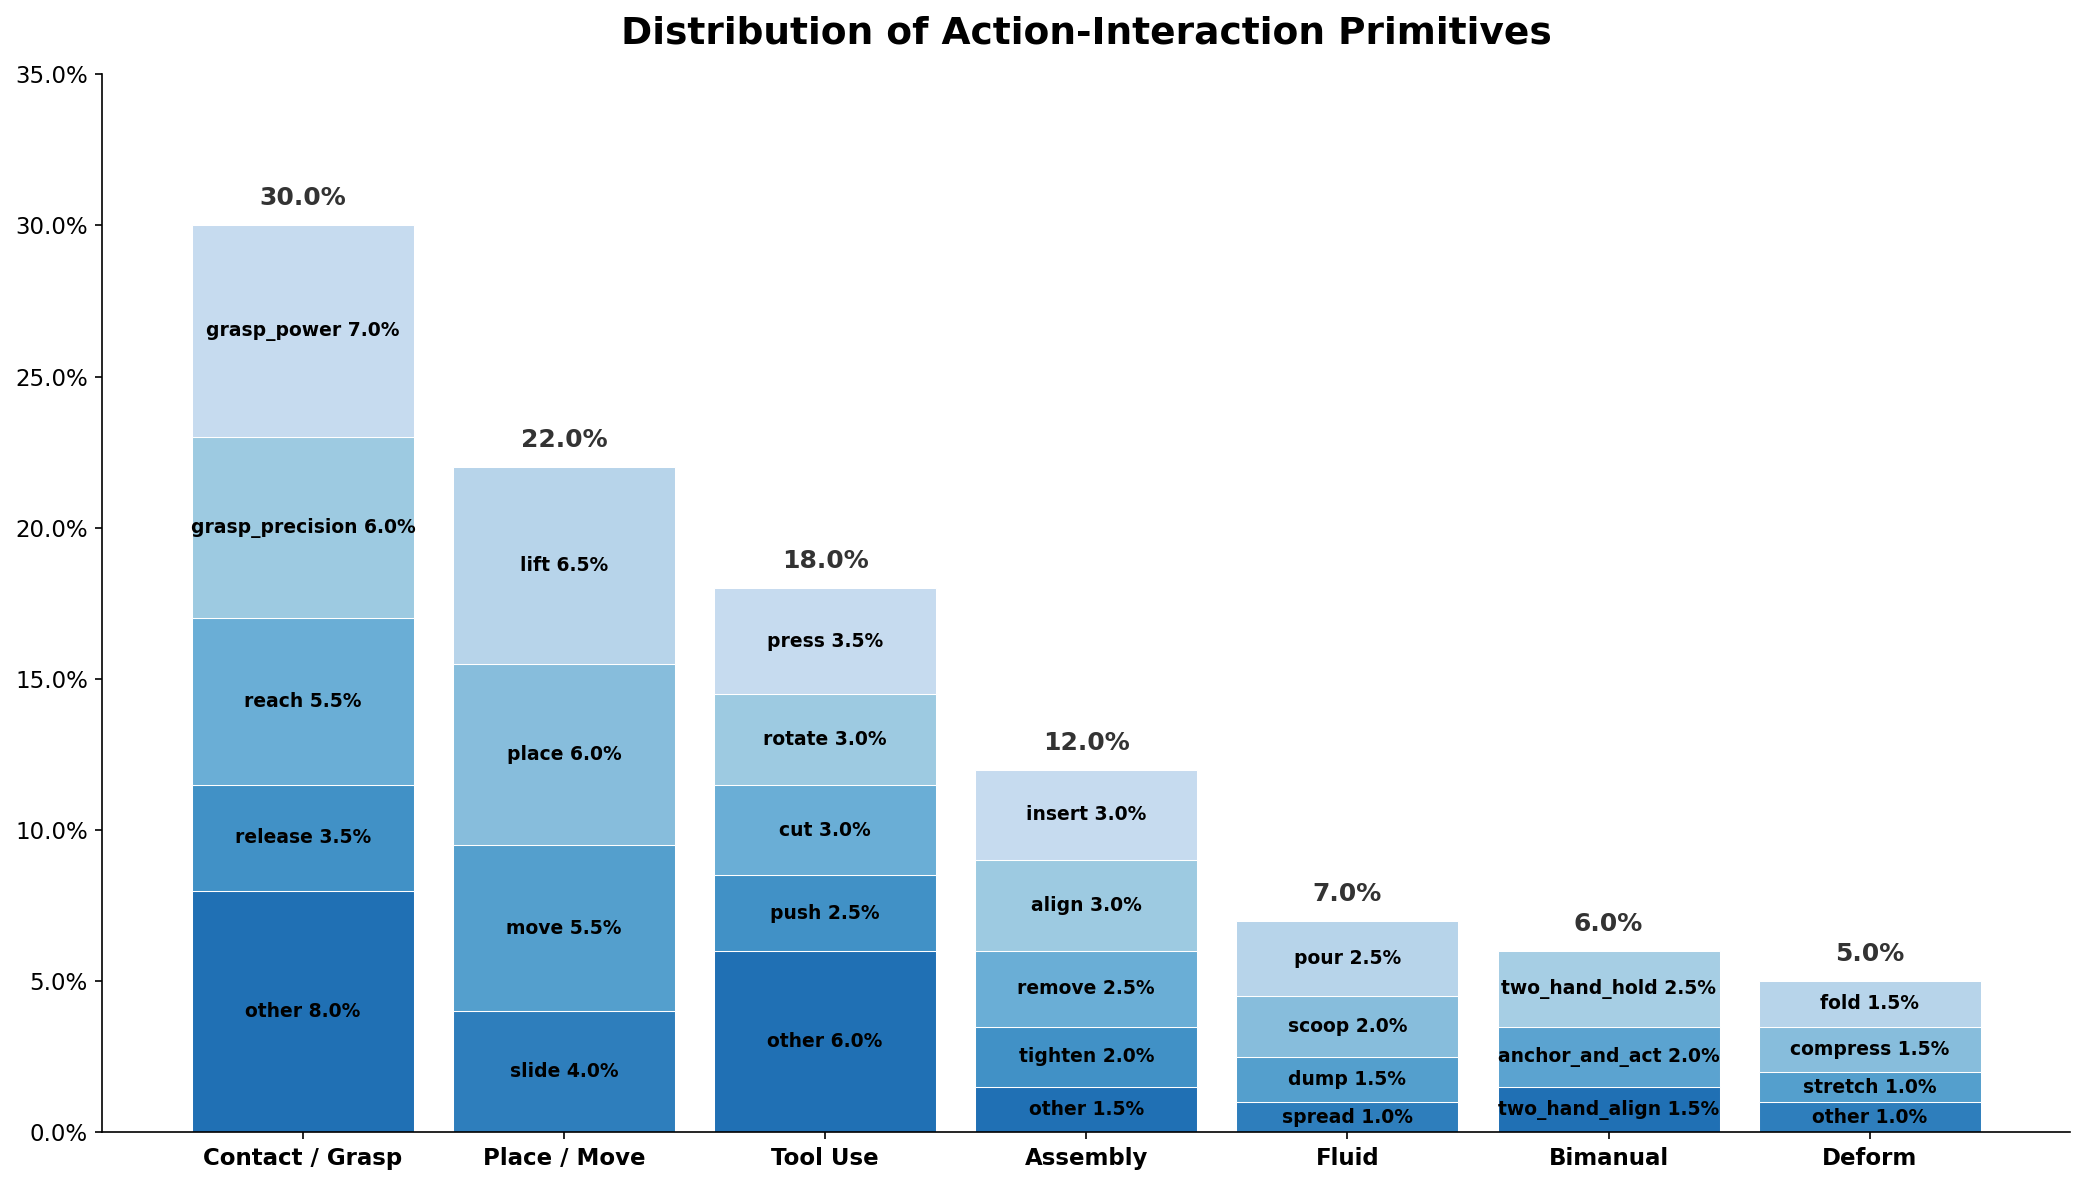
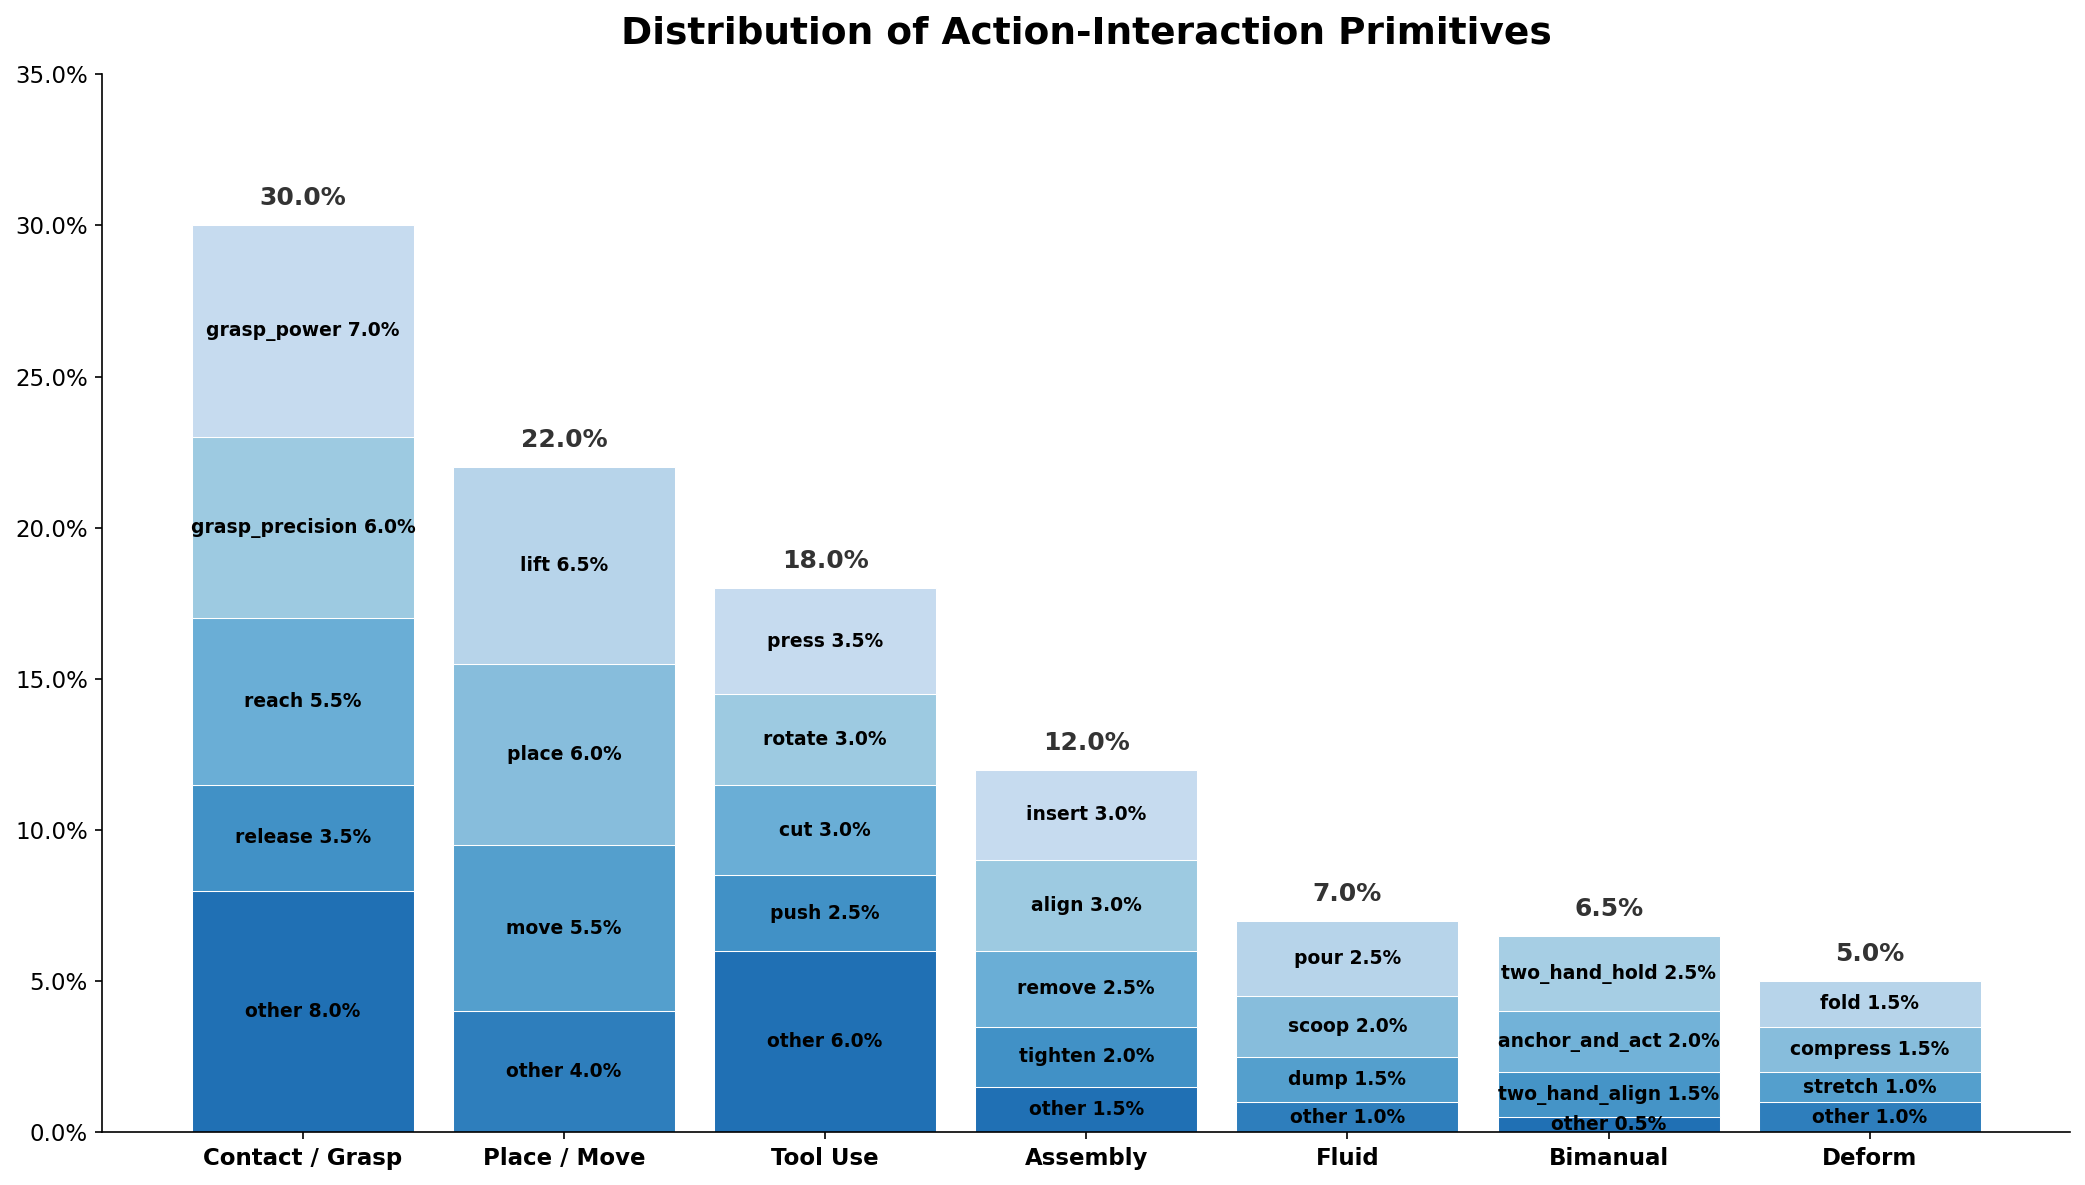
Update action primitives histogram with revised data
Changed slide→other in Place/Move, spread→other in Fluid,
added other 0.5% to Bimanual (now 6.5% total).

https://claude.ai/code/session_018xFGws4xpUTXJntMBVQsZP

Changed region(s): [[0.717, 0.7494, 0.8417, 0.9679], [0.6235, 0.9367, 0.6859, 0.9679], [0.2494, 0.8743, 0.3118, 0.9055]]

diff --git a/action_primitives_histogram.py b/action_primitives_histogram.py
@@ -15,7 +15,7 @@ data = {
         ("lift", 6.5),
         ("place", 6.0),
         ("move", 5.5),
-        ("slide", 4.0),
+        ("other", 4.0),
     ],
     "Tool Use": [
         ("press", 3.5),
@@ -35,12 +35,13 @@ data = {
         ("pour", 2.5),
         ("scoop", 2.0),
         ("dump", 1.5),
-        ("spread", 1.0),
+        ("other", 1.0),
     ],
     "Bimanual": [
         ("two_hand_hold", 2.5),
         ("anchor_and_act", 2.0),
         ("two_hand_align", 1.5),
+        ("other", 0.5),
     ],
     "Deform": [
         ("fold", 1.5),
